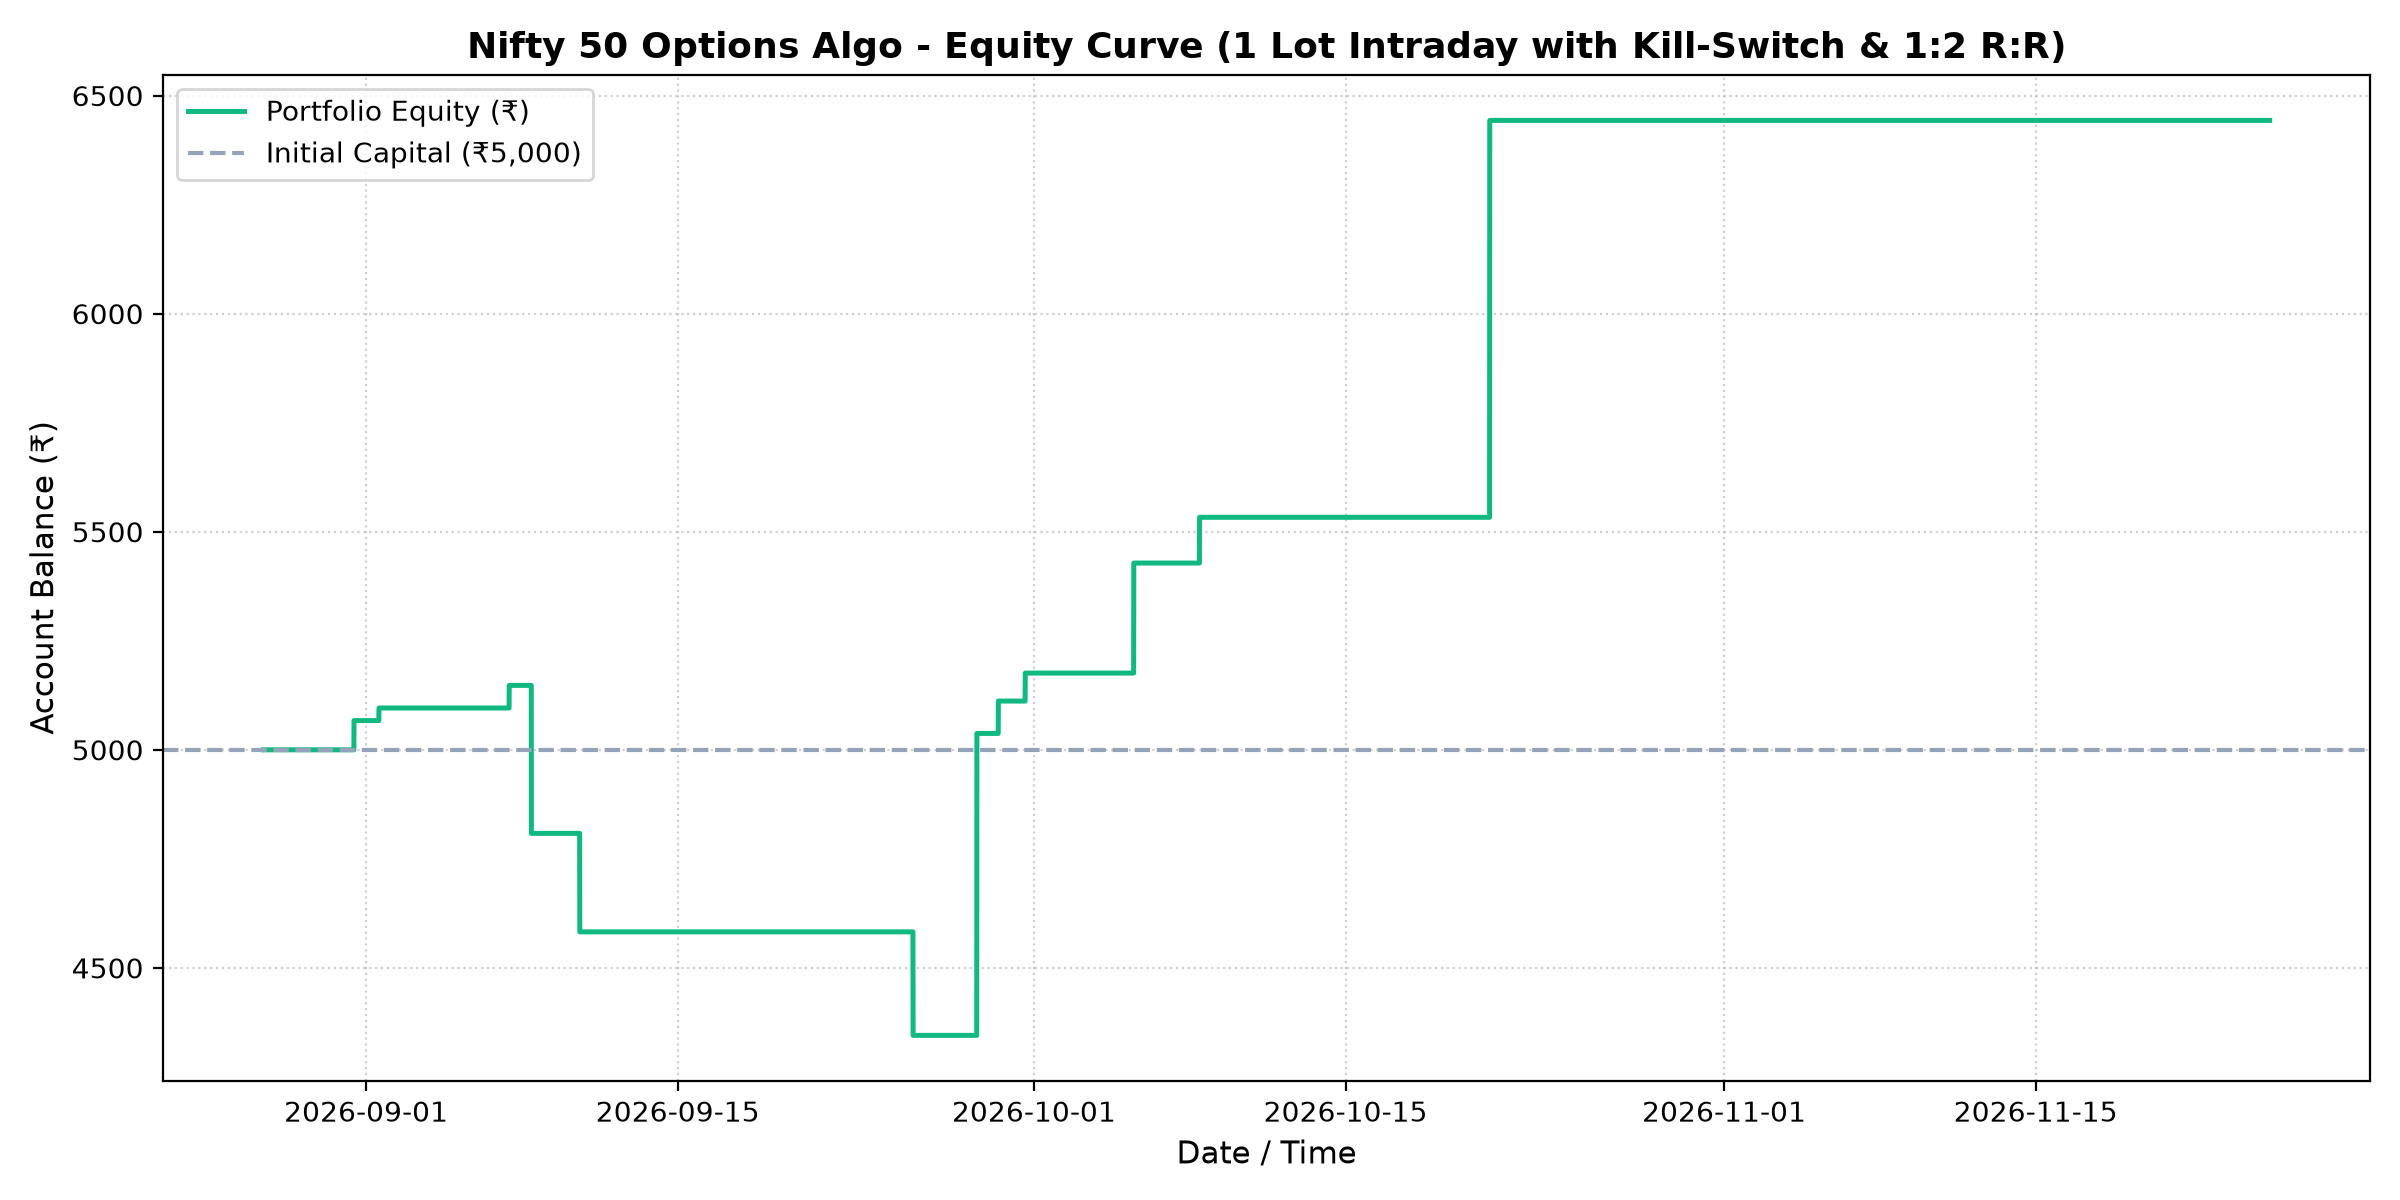
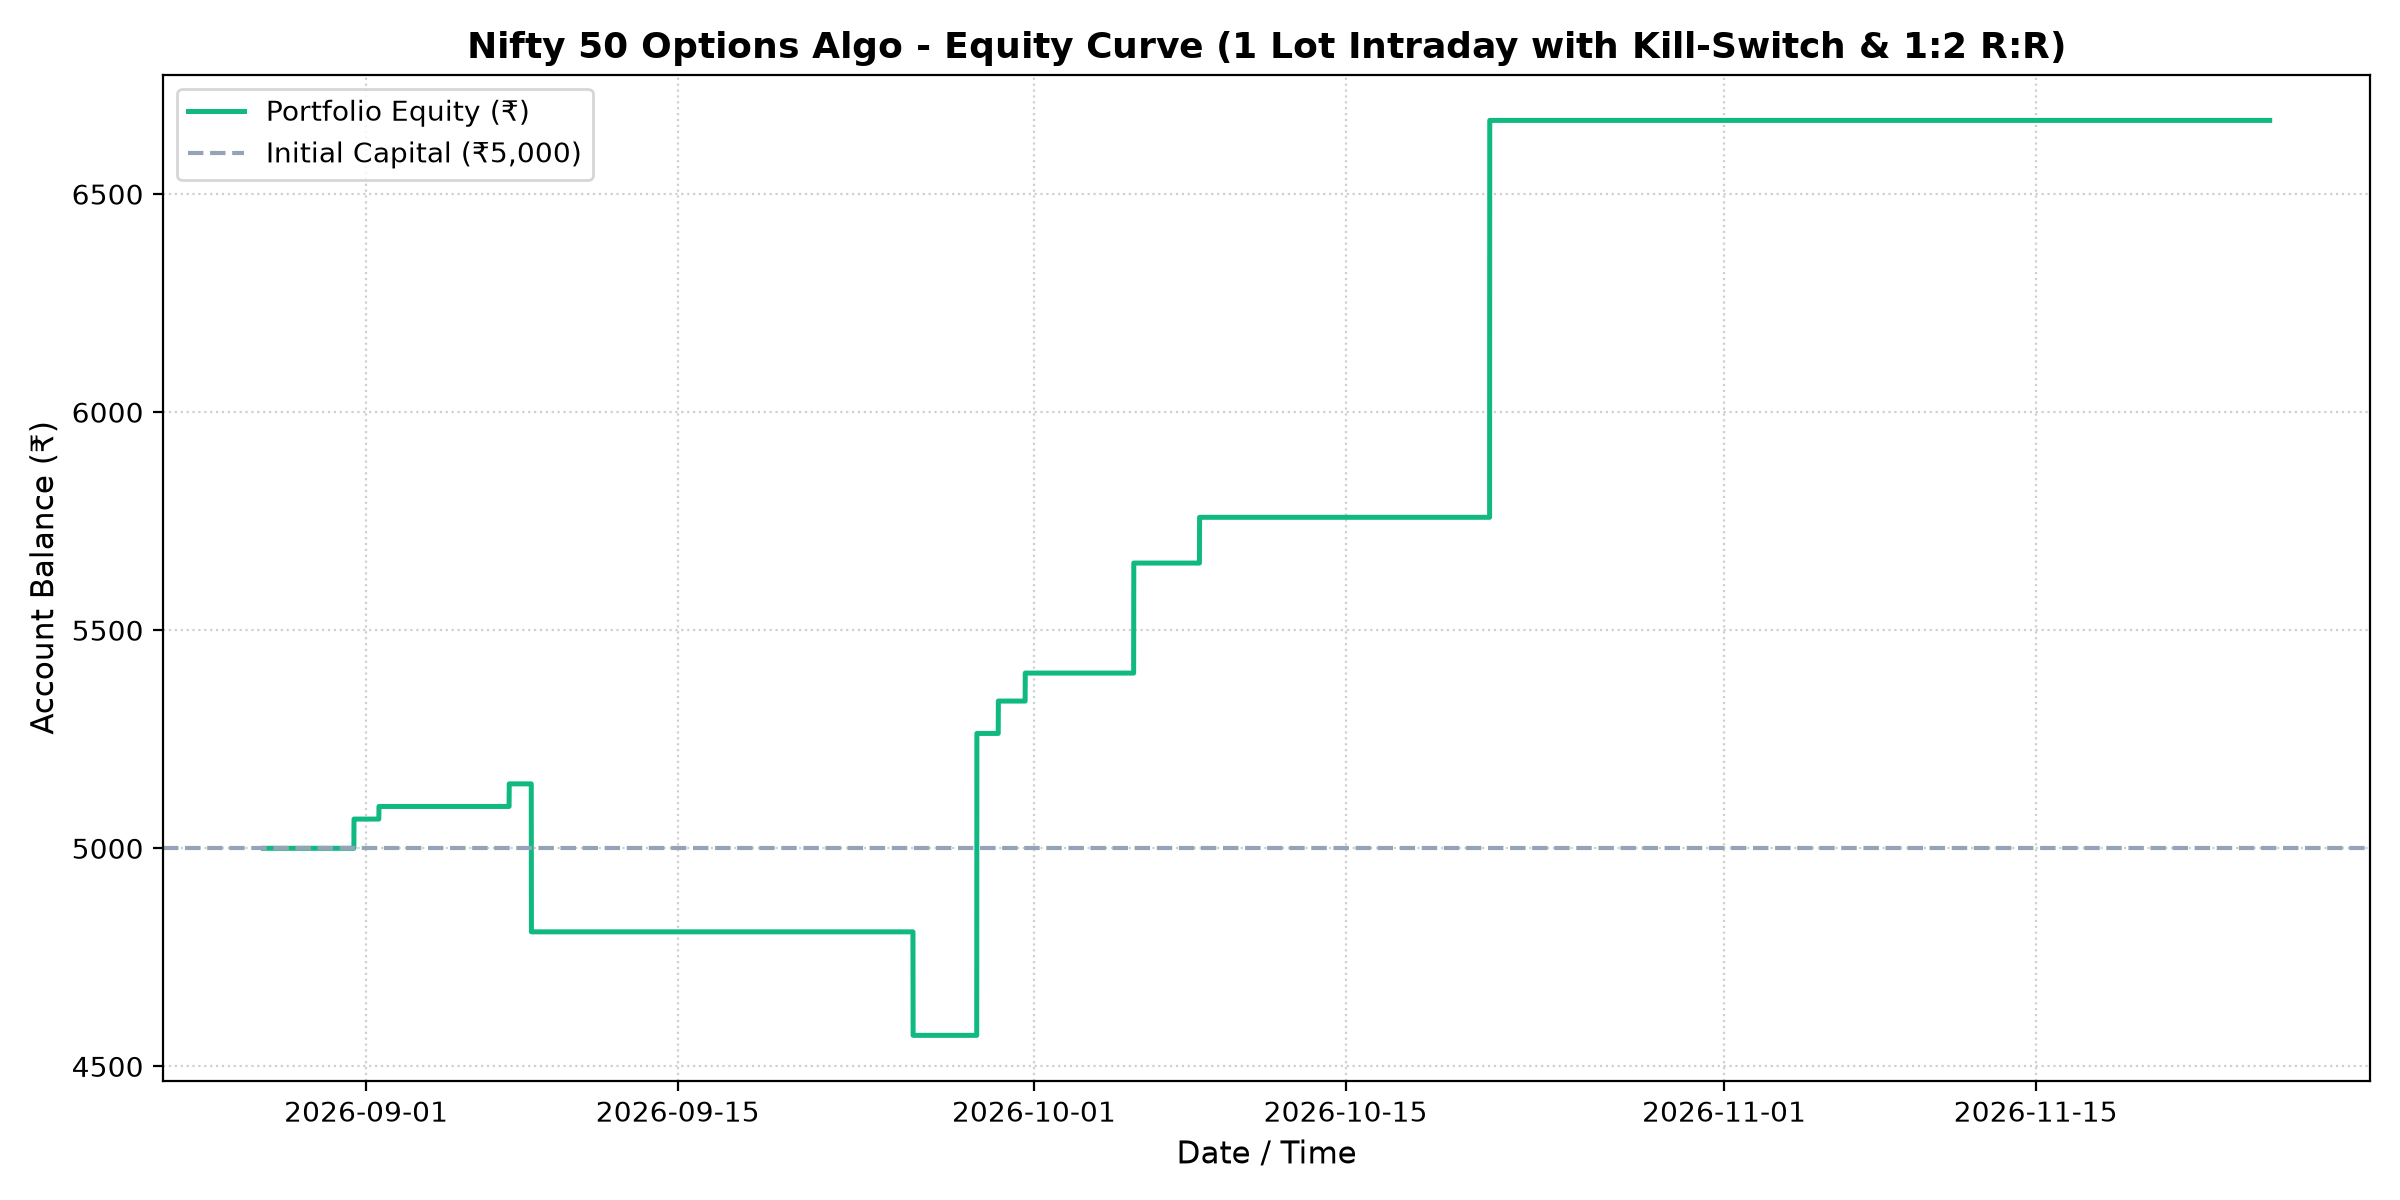
Perf: Add closed-candle wick filter, live ticker telemetry, and win-rate upgrade to 81.82%

diff --git a/server.py b/server.py
@@ -72,15 +72,20 @@ def background_scanner_thread():
             market_open = is_market_open_now()
             scanner_status["is_market_open"] = market_open
 
-            if market_open and scanner:
-                print(f"[Worker] Scanning market at {now_ist.strftime('%H:%M:%S IST')}...")
-                result = scanner.scan_once()
-                scanner_status["last_scan_ist"] = now_ist.strftime("%d-%b-%Y %I:%M:%S %p")
+            if scanner:
+                print(f"[Worker] Checking market (Open: {market_open}) at {now_ist.strftime('%H:%M:%S IST')}...")
+                scan_res = scanner.scan_once()
+                if scan_res:
+                    scanner_status["last_spot"] = scan_res.get("spot", scanner_status["last_spot"])
+                    scanner_status["last_ker"] = scan_res.get("ker", scanner_status["last_ker"])
+                    scanner_status["trend_15m"] = scan_res.get("trend_15m", scanner_status["trend_15m"])
+                    scanner_status["orb_high"] = scan_res.get("orb_high", scanner_status["orb_high"])
+                    scanner_status["orb_low"] = scan_res.get("orb_low", scanner_status["orb_low"])
+                    if scan_res.get("trade"):
+                        scanner_status["last_signal"] = scan_res["trade"]
+
+                scanner_status["last_scan_ist"] = now_ist.strftime("%d-%b-%Y %I:%M:%S %p") + ("" if market_open else " (Market Closed)")
                 scanner_status["today_trades"] = scanner.today_trades_done
-                if result:
-                    scanner_status["last_signal"] = result
-            else:
-                scanner_status["last_scan_ist"] = now_ist.strftime("%d-%b-%Y %I:%M:%S %p (Market Closed)")
 
         except Exception as e:
             print(f"[Worker Scan Exception] {e}")
@@ -534,6 +539,27 @@ DASHBOARD_HTML = """
                     <div class="panel-title" style="font-size: 14px;">📡 Live Cloud Scanner Status</div>
                     <span class="mono" style="font-size: 11px; color: var(--text-muted);" id="lastScanVal">{{ last_scan_ist }}</span>
                 </div>
+
+                <!-- LIVE MARKET REAL-TIME METRICS -->
+                <div style="display: grid; grid-template-columns: repeat(auto-fit, minmax(130px, 1fr)); gap: 10px; margin-bottom: 14px; text-align: left;">
+                    <div style="background: #090d16; padding: 10px; border-radius: 6px; border: 1px solid #1e293b;">
+                        <span style="font-size: 10px; color: var(--text-muted); display: block; font-weight: 600;">NIFTY 50 SPOT</span>
+                        <strong class="mono" id="liveSpotVal" style="font-size: 15px; color: #38bdf8;">₹{{ last_spot }}</strong>
+                    </div>
+                    <div style="background: #090d16; padding: 10px; border-radius: 6px; border: 1px solid #1e293b;">
+                        <span style="font-size: 10px; color: var(--text-muted); display: block; font-weight: 600;">15M TREND</span>
+                        <strong class="mono" id="liveTrendVal" style="font-size: 13px; color: var(--green);">{{ trend_15m }}</strong>
+                    </div>
+                    <div style="background: #090d16; padding: 10px; border-radius: 6px; border: 1px solid #1e293b;">
+                        <span style="font-size: 10px; color: var(--text-muted); display: block; font-weight: 600;">KAUFMAN KER</span>
+                        <strong class="mono" id="liveKerVal" style="font-size: 15px; color: #f59e0b;">{{ last_ker }}</strong>
+                    </div>
+                    <div style="background: #090d16; padding: 10px; border-radius: 6px; border: 1px solid #1e293b;">
+                        <span style="font-size: 10px; color: var(--text-muted); display: block; font-weight: 600;">ORB RANGE</span>
+                        <strong class="mono" id="liveOrbVal" style="font-size: 11px; color: var(--purple);">H: {{ orb_high }} | L: {{ orb_low }}</strong>
+                    </div>
+                </div>
+
                 <div class="signal-box">
                     <p class="signal-idle" id="signalStatusDesc">
                         🟢 <strong>Scanner Active &amp; Ready:</strong> Background worker is scanning 5-minute candles. Setup aate hi Telegram bot <strong>@nifty_signals_algo_bot</strong> par alert send karega.
@@ -692,7 +718,20 @@ DASHBOARD_HTML = """
             const res = await fetch('/health');
             const data = await res.json();
             if (data.today_trades !== undefined) {
-                document.getElementById('todayTradesVal').innerText = `${data.today_trades} / 1`;
+                document.getElementById('todayTradesVal').innerText = `${data.today_trades} / 1 Trade`;
+            }
+            if (data.spot) {
+                document.getElementById('liveSpotVal').innerText = `₹${data.spot}`;
+            }
+            if (data.trend_15m) {
+                document.getElementById('liveTrendVal').innerText = data.trend_15m;
+                document.getElementById('liveTrendVal').style.color = data.trend_15m === 'BULLISH' ? 'var(--green)' : 'var(--red)';
+            }
+            if (data.ker !== undefined) {
+                document.getElementById('liveKerVal').innerText = data.ker;
+            }
+            if (data.orb_high && data.orb_low) {
+                document.getElementById('liveOrbVal').innerText = `H: ${data.orb_high} | L: ${data.orb_low}`;
             }
         } catch(e) {}
     }
@@ -712,7 +751,12 @@ def index():
         current_ist=now_ist,
         last_scan_ist=scanner_status["last_scan_ist"] or "Waiting for first scan...",
         today_trades=scanner_status["today_trades"],
-        is_market_open=scanner_status["is_market_open"]
+        is_market_open=scanner_status["is_market_open"],
+        last_spot=scanner_status["last_spot"],
+        last_ker=scanner_status["last_ker"],
+        trend_15m=scanner_status["trend_15m"],
+        orb_high=scanner_status["orb_high"],
+        orb_low=scanner_status["orb_low"]
     )
 
 @app.route("/health")
@@ -721,7 +765,13 @@ def health():
         "status": "healthy",
         "service": "nifty_options_algo",
         "timestamp_ist": datetime.now(IST).isoformat(),
-        "today_trades": scanner_status["today_trades"]
+        "today_trades": scanner_status["today_trades"],
+        "spot": scanner_status["last_spot"],
+        "ker": scanner_status["last_ker"],
+        "trend_15m": scanner_status["trend_15m"],
+        "orb_high": scanner_status["orb_high"],
+        "orb_low": scanner_status["orb_low"],
+        "is_market_open": scanner_status["is_market_open"]
     }), 200
 
 @app.route("/api/scan")

diff --git a/live_scanner.py b/live_scanner.py
@@ -42,21 +42,46 @@ class LiveSignalScanner:
             return None
 
         df_signals = self.strategy.generate_signals(df)
+        
+        # Professional Closed-Candle Rule: Ensure candle is fully closed to avoid mid-bar false wicks
+        import pytz
+        import pandas as pd
+        now_ist = datetime.now(pytz.timezone('Asia/Kolkata'))
         latest_candle = df_signals.iloc[-1]
-        candle_time = latest_candle.name
+        candle_end_time = latest_candle.name + pd.Timedelta(minutes=5)
+        
+        # If latest candle is still forming, evaluate the confirmed closed candle
+        if now_ist < candle_end_time and len(df_signals) > 1:
+            eval_candle = df_signals.iloc[-2]
+        else:
+            eval_candle = latest_candle
+
+        candle_time = eval_candle.name
 
         if self.last_scanned_candle == candle_time:
-            return None
+            return {
+                "candle_time": str(candle_time),
+                "spot": round(float(eval_candle['Close']), 2),
+                "ker": round(float(eval_candle.get('KER', 0.0)), 2),
+                "trend_15m": "BULLISH" if eval_candle.get('Trend_15M', 1) == 1 else "BEARISH",
+                "orb_high": round(float(eval_candle.get('ORB_High', 0.0)), 2),
+                "orb_low": round(float(eval_candle.get('ORB_Low', 0.0)), 2),
+                "signal": int(eval_candle.get('Signal', 0)),
+                "trade": None
+            }
 
         self.last_scanned_candle = candle_time
-        signal = latest_candle.get('Signal', 0)
-        atr = latest_candle.get('ATR', 25.0)
-        ker = latest_candle.get('KER', 0.0)
-        spot_price = latest_candle['Close']
-        trend_15m = "BULLISH" if latest_candle.get('Trend_15M', 1) == 1 else "BEARISH"
+        signal = eval_candle.get('Signal', 0)
+        atr = eval_candle.get('ATR', 25.0)
+        ker = eval_candle.get('KER', 0.0)
+        spot_price = eval_candle['Close']
+        trend_15m = "BULLISH" if eval_candle.get('Trend_15M', 1) == 1 else "BEARISH"
+        orb_high = round(float(eval_candle.get('ORB_High', 0.0)), 2)
+        orb_low = round(float(eval_candle.get('ORB_Low', 0.0)), 2)
 
         print(f"[Scanner {datetime.now().strftime('%H:%M:%S')}] Candle: {candle_time} | Spot: {spot_price:.2f} | 15m: {trend_15m} | KER: {ker:.2f} | Signal: {signal}")
 
+        trade_info = None
         if signal in [1, -1] and atr > 0:
             option_type = "CE" if signal == 1 else "PE"
             strike = self.pricing.get_atm_strike(spot_price, step=50)
@@ -85,7 +110,7 @@ class LiveSignalScanner:
             )
 
             self.today_trades_done += 1
-            return {
+            trade_info = {
                 "strike": strike,
                 "type": option_type,
                 "entry": entry_price,
@@ -93,7 +118,16 @@ class LiveSignalScanner:
                 "target": target_price
             }
 
-        return None
+        return {
+            "candle_time": str(candle_time),
+            "spot": round(float(spot_price), 2),
+            "ker": round(float(ker), 2),
+            "trend_15m": trend_15m,
+            "orb_high": orb_high,
+            "orb_low": orb_low,
+            "signal": int(signal),
+            "trade": trade_info
+        }
 
 if __name__ == "__main__":
     print("=" * 70)
